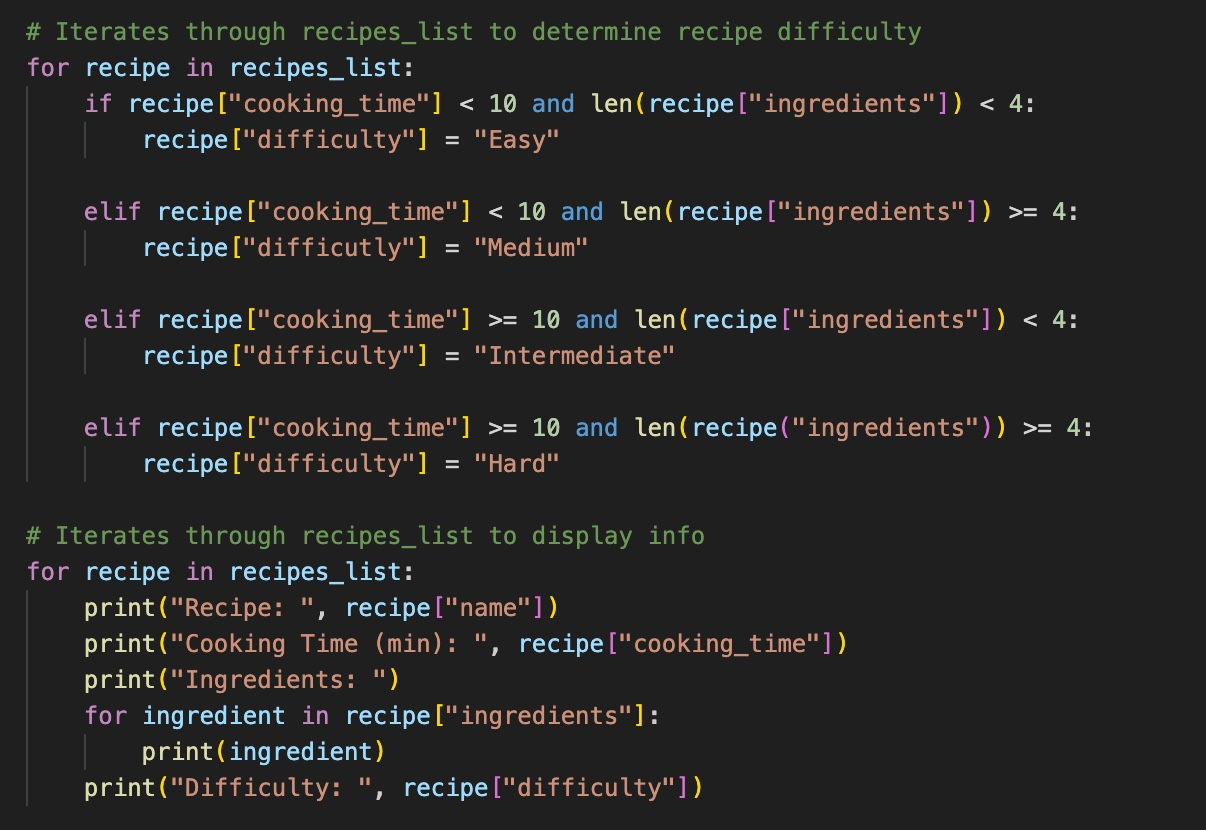
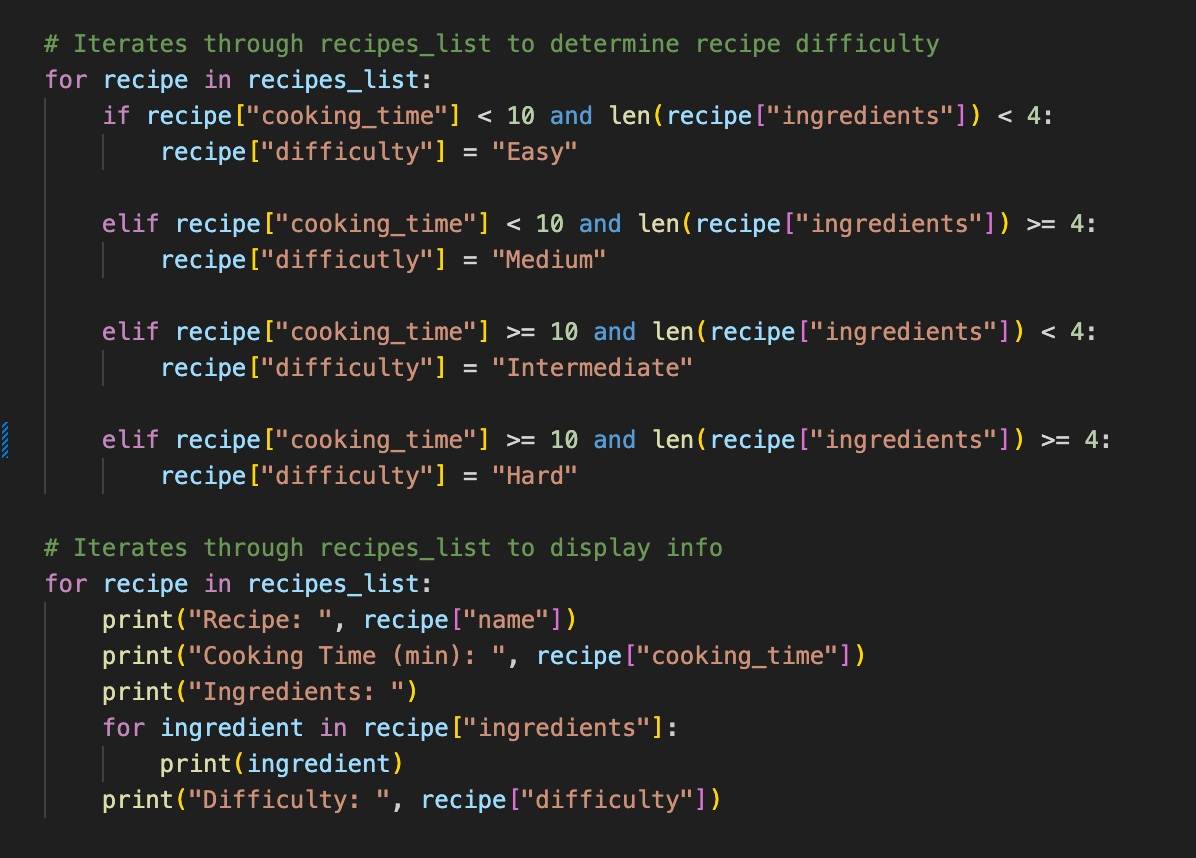
included final screenshot of script

diff --git a/Achievement_1/Exercise_1.3/Exercise_1.3.py b/Achievement_1/Exercise_1.3/Exercise_1.3.py
@@ -6,7 +6,7 @@ ingredients_list = []
 def take_recipe():
     name = str(input("Enter the recipe's name: "))
     cooking_time = int(input("Enter the cooking time in minutes: "))
-    ingredients = list(input("Enter the ingredients: "))
+    ingredients = list(input("Enter the ingredients: ").split(", "))
     recipe = {
         "name": name,
         "cooking_time": cooking_time,
@@ -39,7 +39,7 @@ for recipe in recipes_list:
     elif recipe["cooking_time"] >= 10 and len(recipe["ingredients"]) < 4:
         recipe["difficulty"] = "Intermediate"
 
-    elif recipe["cooking_time"] >= 10 and len(recipe("ingredients")) >= 4:
+    elif recipe["cooking_time"] >= 10 and len(recipe["ingredients"]) >= 4:
         recipe["difficulty"] = "Hard"
 
 # Iterates through recipes_list to display info
